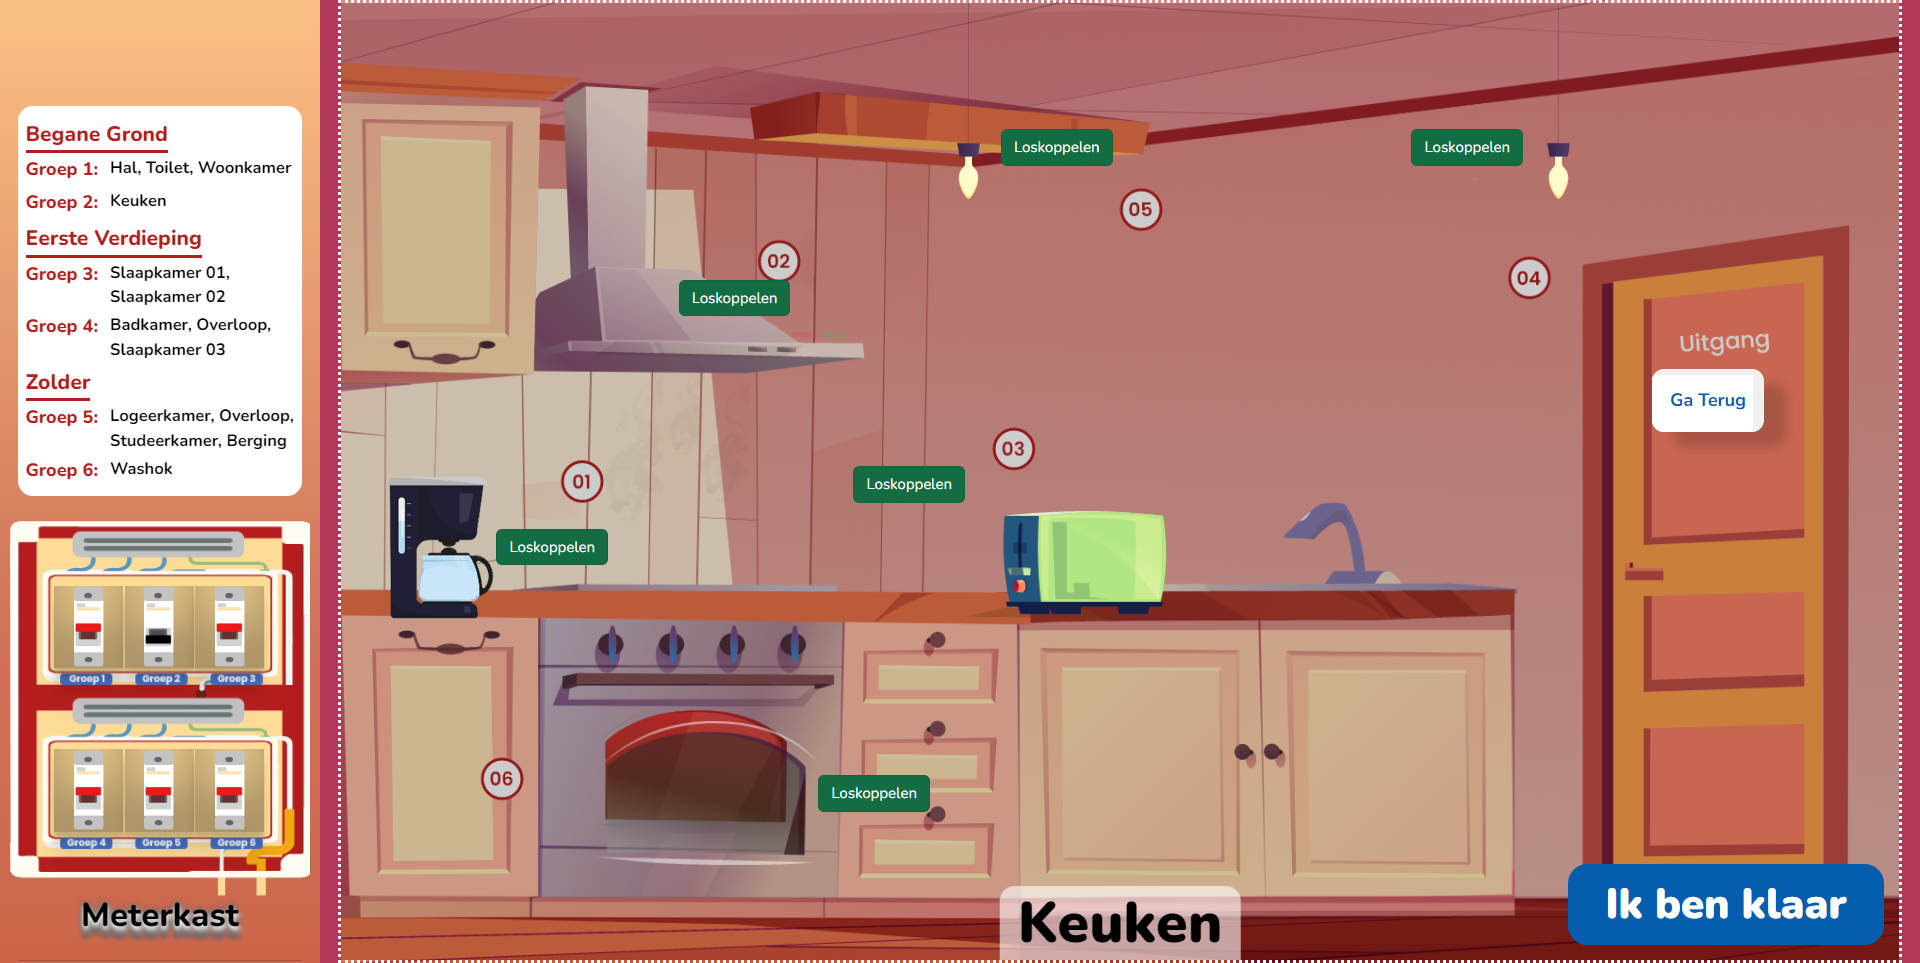
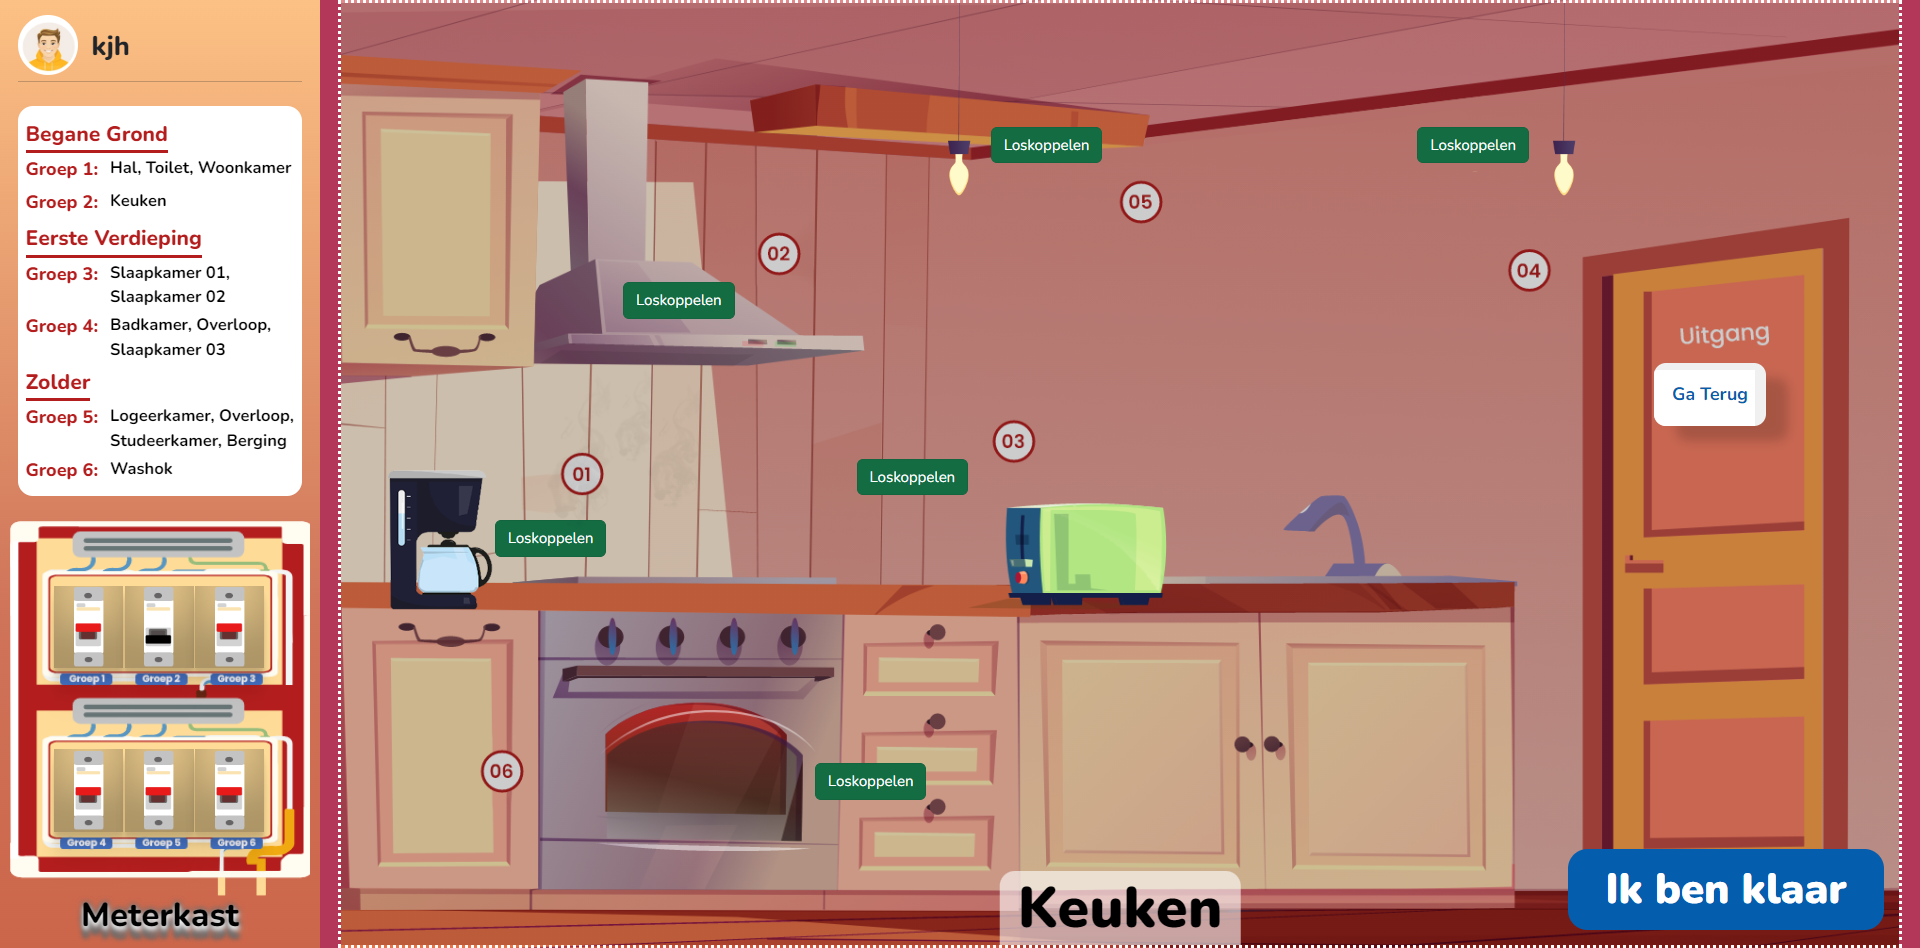
fixed lights issue

diff --git a/src/Pages/GroundFloor/Components/Kitchen.css b/src/Pages/GroundFloor/Components/Kitchen.css
@@ -1,134 +1,140 @@
-.kitchen-main-div{
-    background-repeat: no-repeat;
- position: relative;
+.kitchen-main-div {
+  background-repeat: no-repeat;
+  position: relative;
   background-position: center; /* Center the image */
   background-repeat: no-repeat; /* Do not repeat the image */
-  background-size: cover; 
+  background-size: cover;
 }
-.img-div{
-    position: relative;
+.img-div {
+  position: relative;
 }
 /* mixture ................... */
 .div-mixture {
-    position: absolute;
-    top: 49vh;
-    left: 3%;
+  position: absolute;
+  top: 49vh;
+  left: 3%;
 }
 .div-mixture-On {
-    position: absolute;
-    top: 49vh;
-    left: 3%;
+  position: absolute;
+  top: 49vh;
+  left: 3%;
 }
 /* first light ............ */
 .div-oven {
-    position: absolute;
-    left: 16.4%;
-    top: 73.5vh;
+  position: absolute;
+  left: 16.4%;
+  top: 73.5vh;
 }
 .div-oven-On {
-    position: absolute;
-    left: 16.4%;
-    top: 73.5vh; 
+  position: absolute;
+  left: 16.4%;
+  top: 73.5vh;
 }
 /* second light ................. */
 .div-kitchenLight01 {
-    position: absolute;
-    top: 0px;
-    left: 61.5vh;
+  position: absolute;
+  top: 0px;
+  left: 61.5vh;
 }
-.div-kitchenLight01-On{
-    position: absolute;
-    top: 0px;
-    left: 61.5vh;
+.div-kitchenLight01-On {
+  position: absolute;
+  top: 0px;
+  left: 61.5vh;
 }
 /* kitchenLight02 ................... */
-.div-kitchenLight02{
-    position: absolute;
-    top: 0px;
-    right: 61.5vh;
+.div-kitchenLight02 {
+  position: absolute;
+  top: 0px;
+  right: 61.5vh;
 }
-.div-kitchenLight02-On{
-    position: absolute;
-    top: 0px;
-    right: 61.5vh;
+.div-kitchenLight02-On {
+  position: absolute;
+  top: 0px;
+  right: 61.5vh;
 }
-
 
 /* kitchenLight02 ................... */
 .div-kitchenLight02 {
-    position: relative;
-    top: 35.2vh;
-    left: 11.3vw;
+  position: absolute;
+  top: 35.2% !important;
+  left: 12.8% !important;
+  width: 16.5%;
+  padding-top: 0.4%;
+}
+.div-kitchenLight02 img {
+  width: 100%;
 }
 .div-kitchenLight02 .set-top-btn-ab {
-    position: absolute;
-    top: -35px;
-    left:55px;
+  position: absolute;
+  top: -35px;
+  left: 55px;
 }
-.div-kitchenLight02-On{
-    position: relative;
-    top: 35.2vh;
-    left: 23.3vh;
+.div-kitchenLight02-On {
+  position: absolute;
+  top: 35.2%;
+  left: 12.8%;
+  width: 16.5%;
+  padding-top: 0.4%;
+}
+
+.div-kitchenLight02-On img {
+  width: 100%;
 }
 .div-kitchenLight02-On .set-top-btn-ab {
-    position: absolute;
-    top: -35px;
-    left:55px;
+  position: absolute;
+  top: -35px;
+  left: 55px;
 }
 
 .set-btns-kitchen-ground {
-    position: absolute !important;
-    top: 38vh;
-    right: 14vh;
+  position: absolute !important;
+  top: 38vh;
+  right: 14vh;
 }
 /* padestal ................... */
-.div-kitchenLight03{
-    position: absolute;
-    top: 0px;
-    right: 32vh;
-    
+.div-kitchenLight03 {
+  position: absolute;
+  top: 0px;
+  right: 32vh;
 }
-.div-kitchenLight03-On{
-    position: absolute;
-    top: 0px;
-    right: 32vh;
-    
+.div-kitchenLight03-On {
+  position: absolute;
+  top: 0px;
+  right: 32vh;
 }
 .div-toster {
-    position: absolute;
-    top: 36vh;
-    right: 47%;
+  position: absolute;
+  top: 36vh;
+  right: 47%;
 }
 .div-toster-On {
-    position: absolute;
-    top: 36vh;
-    right: 47%;
+  position: absolute;
+  top: 36vh;
+  right: 47%;
 }
-.disconnected{
-    -webkit-filter: blur(4px);
+.disconnected {
+  -webkit-filter: blur(4px);
 }
 .disconnected-my {
-    filter: invert(1);
+  filter: invert(1);
 }
-@media (max-width: 1200px){
-    .div-kitchenLight01 {
-        left: 44.3vh;
-    }
-    .div-kitchenLight01-On{
-        position: absolute;
-        top: 0px;
-        left: 41.5vh;
-    }
-    .div-oven {
-        left: 17%;
-        top: 73vh;
-    }
-
+@media (max-width: 1200px) {
+  .div-kitchenLight01 {
+    left: 44.3vh;
+  }
+  .div-kitchenLight01-On {
+    position: absolute;
+    top: 0px;
+    left: 41.5vh;
+  }
+  .div-oven {
+    left: 17%;
+    top: 73vh;
+  }
 }
-@media (max-width: 1100px){
-    .div-oven {
-        left: 14.5%;
-        top: 71vh;
-    }
-
+@media (max-width: 1100px) {
+  .div-oven {
+    left: 14.5%;
+    top: 71vh;
+  }
 }

diff --git a/src/Pages/Congratulation/Congratulation.js b/src/Pages/Congratulation/Congratulation.js
@@ -209,7 +209,7 @@ const Congratulation = () => {
             your supervisor in and show him your score
           </p>
         )}
-        <div style={{ height: "200px", width: "200px", margin: "auto" }}>
+        <div style={{ height: "180px", width: "180px", margin: "auto" }}>
           {(counterLocal == 0 &&
             counterDeviceLocal == 1 &&
             disconnectedDevicesLocal == 1 &&
@@ -244,6 +244,14 @@ const Congratulation = () => {
           {/* <p className="mb-0 set-font-16">
                   Maximum of 10 Breaker attempts:
                 </p> */}
+          <p className="set-font-20">
+            {isDutch
+              ? "Je bent vergeten aan te zetten"
+              : "You forgot to turn on"}{" "}
+            <strong style={{ borderBottom: "1px solid #fff" }}>
+              {disconnectedBreaker} {isDutch ? "Zekeringen" : "Breakers."}{" "}
+            </strong>
+          </p>
           <p className="set-font-20">
             {isDutch
               ? "Je hebt geëxperimenteerd met"

diff --git a/src/exercise/components/step3/Devices.js b/src/exercise/components/step3/Devices.js
@@ -41,7 +41,7 @@ const Devices = () => {
       <div className="translator-exercise">
         <ChangeLanguageToggle />
       </div>
-      <Highlight width={220} height={300} left={0} top={8} radius="30px" />
+      <Highlight width="17%" height="45%" left={0} top={8} radius="30px" />
       <Popup bottom={0} right={0} width={47} opacity={0}>
         {isDutch ? (
           <>

diff --git a/src/Pages/GroundFloor/Components/Kitchen.js b/src/Pages/GroundFloor/Components/Kitchen.js
@@ -208,7 +208,7 @@ const Kitchen = (props) => {
         }}
         className="kitchen-main-div"
       >
-        <div className=" d-flex img-div">
+        <div className=" d-flex img-div h-100 w-100">
           {/* lamp div .............. */}
           <div
             className={

diff --git a/src/App.js b/src/App.js
@@ -123,8 +123,8 @@ function App() {
 
   useEffect(() => {
     // iron in laundary
-    // setRndAll(49);
-    randomDevice();
+    setRndAll(49);
+    // randomDevice();
   }, []);
 
   useEffect(() => {
